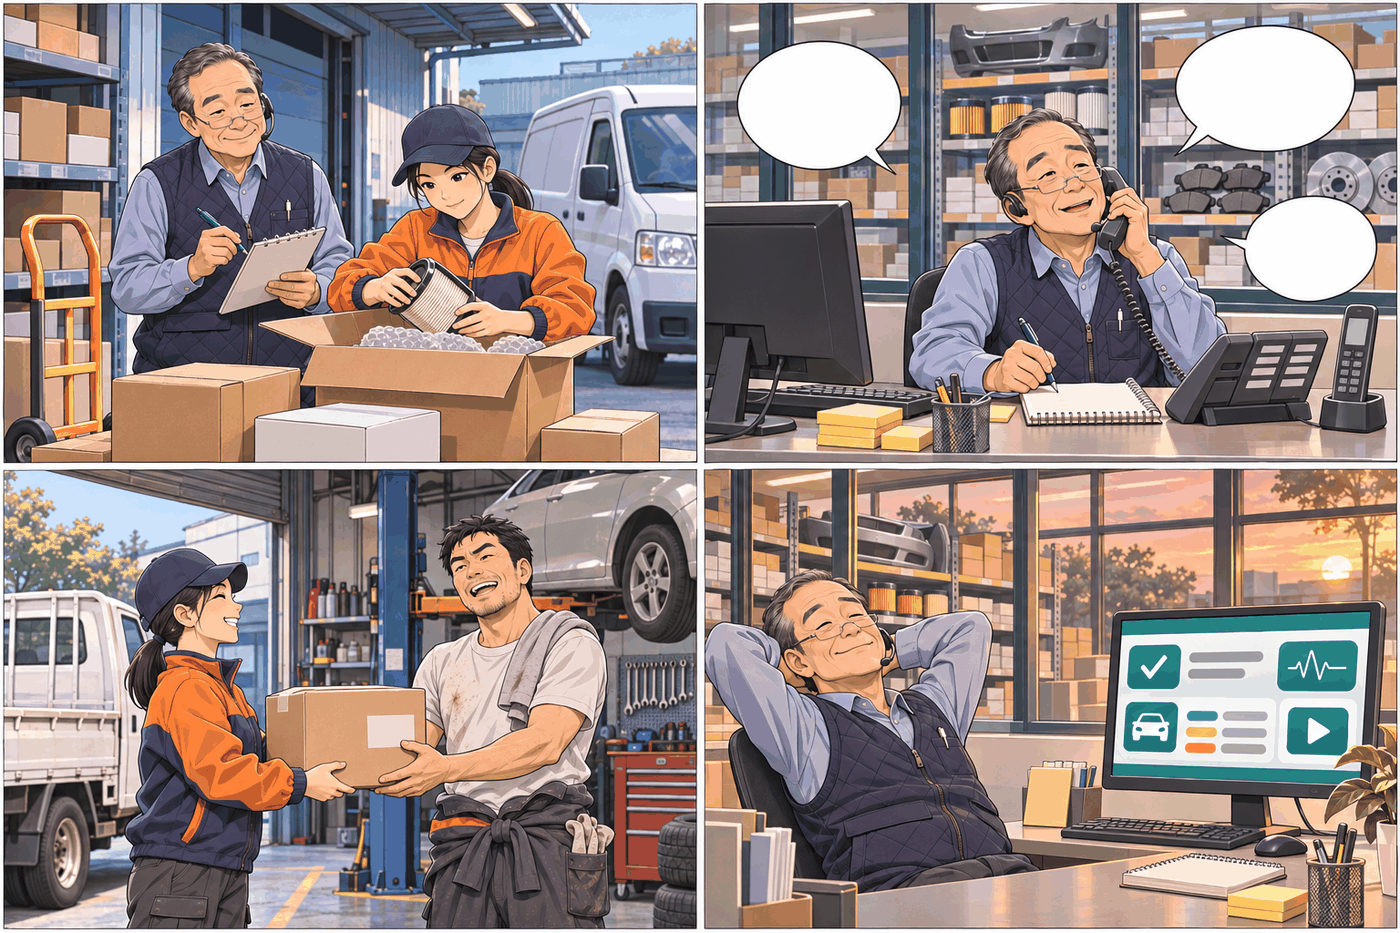
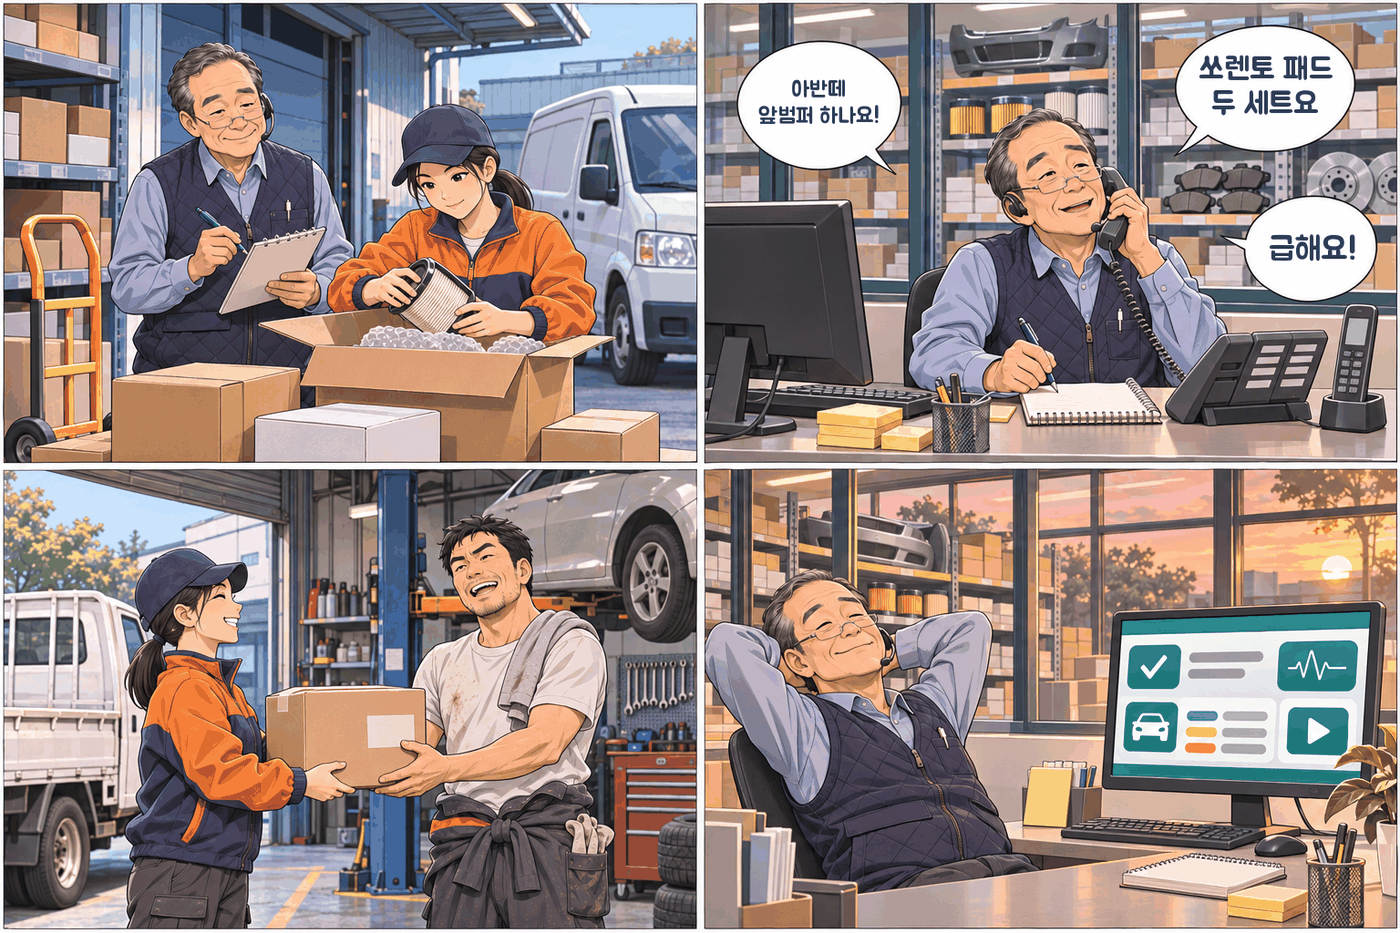
docs: 장면 그림 빈 말풍선에 현장 말 글자 넣기 (v1.1 준비)
관제소 지적(13쪽 만화의 빈 말풍선)에 따라 하루 만화 · 문제 장면 두 장의 말풍선에
지어낸 현장 말을 얹었다. 원본 그림은 그대로 두고 bubbles.py 로 글자만 더했다.

AI-작성: Claude Code(Opus 5.5) · 남희(기획) 작업방

diff --git a/work/01-기획-남희/자료/그림/만든법/bubbles.py b/work/01-기획-남희/자료/그림/만든법/bubbles.py
@@ -1,0 +1,25 @@
+# 장면 그림의 빈 말풍선에 글자를 얹는다 (그림 생성기는 한글을 깨뜨리기 쉬워 글자는 따로 넣는다)
+# 원본: out/_notext/<id>.png → 결과: out/<id>.png
+from PIL import Image, ImageDraw, ImageFont
+FONT = r"C:\Users\pc\mp-assets\fonts\BM-JUA-Regular.ttf"   # 배달의민족 주아(OFL)
+B = {
+    # id: [(중심 x, 중심 y, 칸 너비, 칸 높이, 글)] — 1536×1024 기준
+    "d01-day": [(898, 112, 140, 88, "아반떼\n앞범퍼 하나요!"), (1388, 94, 150, 90, "쏘렌토 패드\n두 세트요"), (1440, 272, 100, 70, "급해요!")],
+    "s01-rush": [(432, 272, 190, 120, "휀다 좌측\n하나요!"), (1082, 292, 180, 120, "언제\n와요?"), (1386, 514, 170, 115, "따르릉\n따르릉")],
+    "s02-dispute": [(745, 185, 215, 120, "하나만\n시켰다니까요?!")],
+}
+for sid, items in B.items():
+    im = Image.open(f"out/_notext/{sid}.png").convert("RGB")
+    d = ImageDraw.Draw(im)
+    for cx, cy, w, h, text in items:
+        size = 60
+        while size > 18:
+            f = ImageFont.truetype(FONT, size)
+            box = d.multiline_textbbox((0, 0), text, font=f, spacing=6, align="center")
+            if box[2] - box[0] <= w and box[3] - box[1] <= h:
+                break
+            size -= 2
+        tw, th = box[2] - box[0], box[3] - box[1]
+        d.multiline_text((cx - tw / 2 - box[0], cy - th / 2 - box[1]), text, font=f, fill=(35, 57, 91), spacing=6, align="center")
+    im.save(f"out/{sid}.png")
+    print(sid, "ok")

diff --git a/work/01-기획-남희/자료/그림/만든법/README.md b/work/01-기획-남희/자료/그림/만든법/README.md
@@ -8,3 +8,4 @@
 - 인물(박 부장 · 김 사장 · 이 기사)은 모두 지어낸 가짜 인물이다.
 - 저장소에는 가로 1400px · 256색 PNG 로 줄여 넣었다(`publish.py`). 원본(1536px)은 작업 PC 에만 있다.
 - 다시 그리기: `python scenes.py briefs` → `python scenes.py run 4 <id>` (작업 폴더에 `ref/char-sheet.png` 가 있어야 한다).
+- 말풍선 글자: 그림 생성기는 한글을 깨뜨리기 쉬워서, 빈 말풍선으로 그린 뒤 `bubbles.py` 로 글자를 얹었다(배달의민족 주아 글꼴 · OFL). 대상: `d01-day` · `s01-rush` · `s02-dispute`. 말은 모두 지어낸 현장 말이다.
